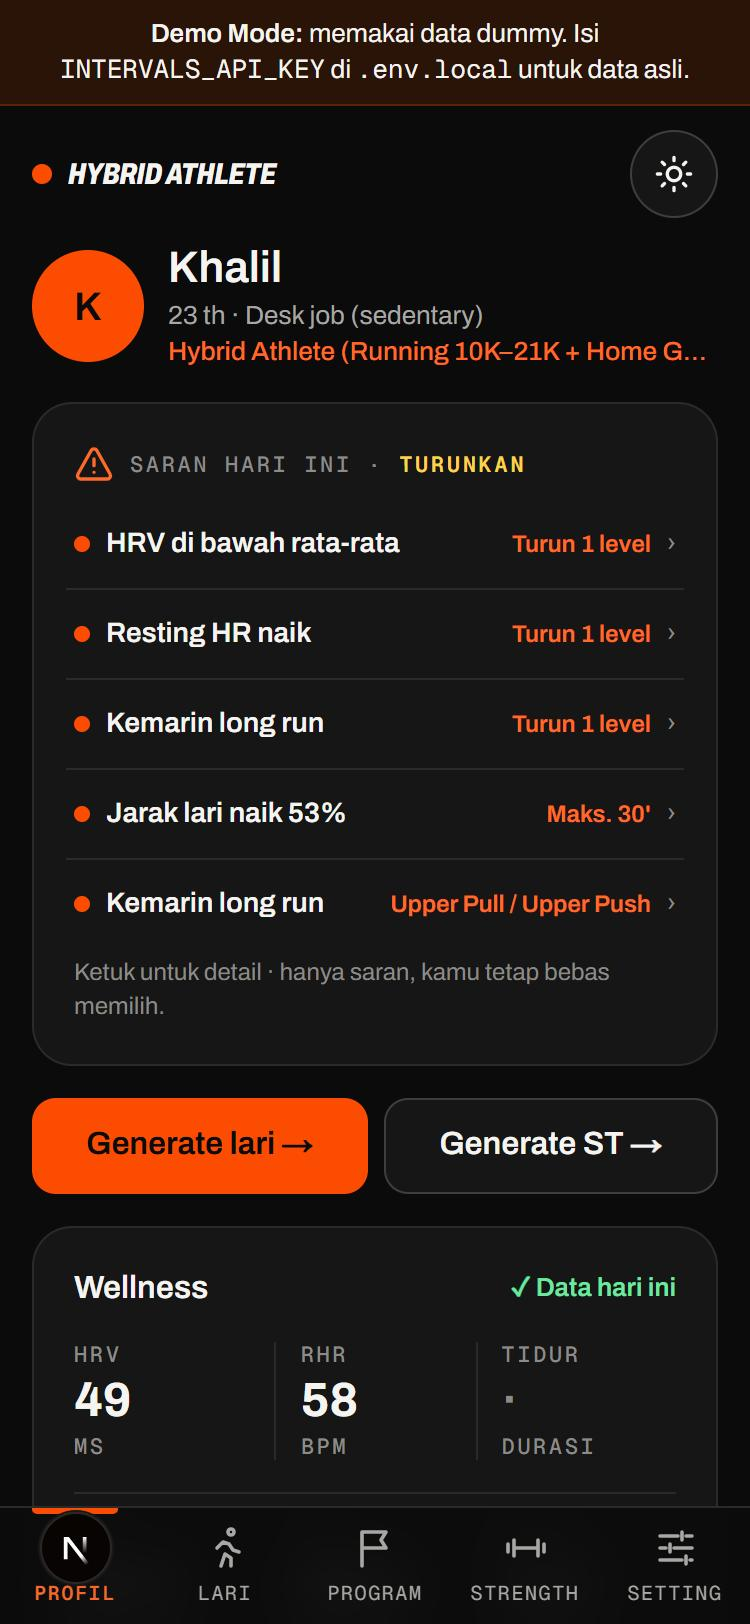
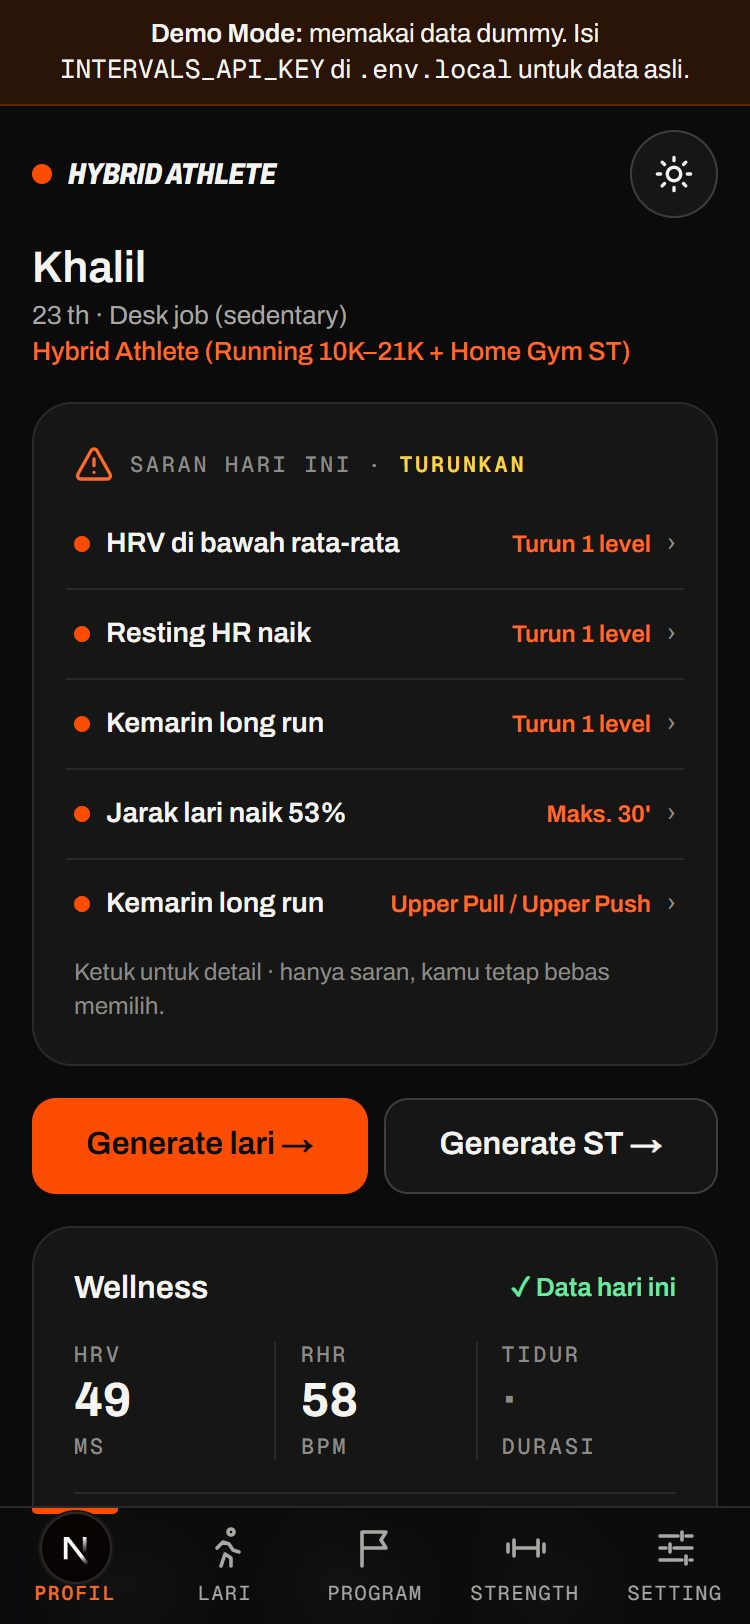
docs: refresh profile and activity screenshots
01-profile shows the header without the initials avatar; 06-activity
shows the Norwegian 4x4 demo session with the new per-km splits card.
Captured from Demo Mode at 375x812 @2x (dark), like the rest of the set.

Changed region(s): [[0.0307, 0.1539, 0.92, 0.2463]]

diff --git a/README.md b/README.md
@@ -23,12 +23,12 @@ Dibangun mobile-first sebagai **PWA**: bisa di-install ke layar utama HP dan dip
   </tr>
   <tr>
     <td><img src="docs/screenshots/02-weekly-summary.jpg" width="220" alt="Ringkasan 7 hari dengan StatRow, 80/20, dan Week Ledger"></td>
-    <td><img src="docs/screenshots/06-activity.jpg" width="220" alt="Detail aktivitas dengan kartu tag dan Skyline selesai"></td>
+    <td><img src="docs/screenshots/06-activity.jpg" width="220" alt="Detail aktivitas Norwegian 4x4 dengan kartu tag dan split per km"></td>
     <td><img src="docs/screenshots/08-program.jpg" width="220" alt="Program target 10K dengan fase dan minggu ini"></td>
   </tr>
   <tr>
     <td align="center"><sub>7 hari terakhir + Week Ledger</sub></td>
-    <td align="center"><sub>Detail aktivitas</sub></td>
+    <td align="center"><sub>Detail aktivitas + split per km</sub></td>
     <td align="center"><sub>Program target (5K–FM)</sub></td>
   </tr>
   <tr>

diff --git a/CHANGELOG.md b/CHANGELOG.md
@@ -16,6 +16,7 @@ Semua perubahan penting di project ini. Format mengikuti [Keep a Changelog](http
 
 ### Diubah
 - Lingkaran inisial di header Profil dihapus (belum ada fitur foto profil).
+- Screenshot README `01-profile` dan `06-activity` diperbarui (header tanpa avatar, detail aktivitas dengan split per km).
 
 ## [0.10.0-ui] · 2026-10-12 · Redesign "Tag"
 
